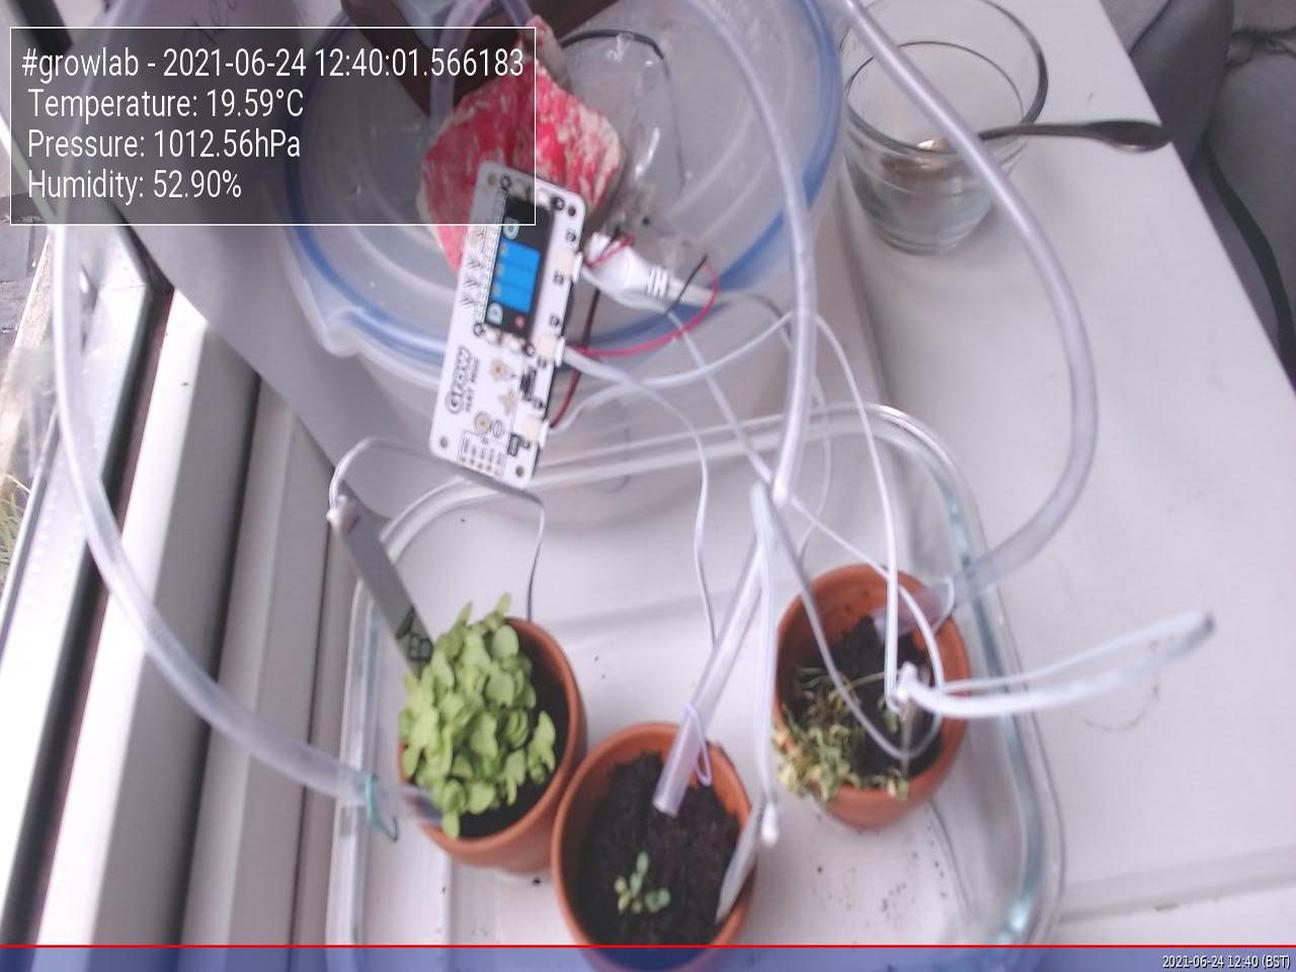
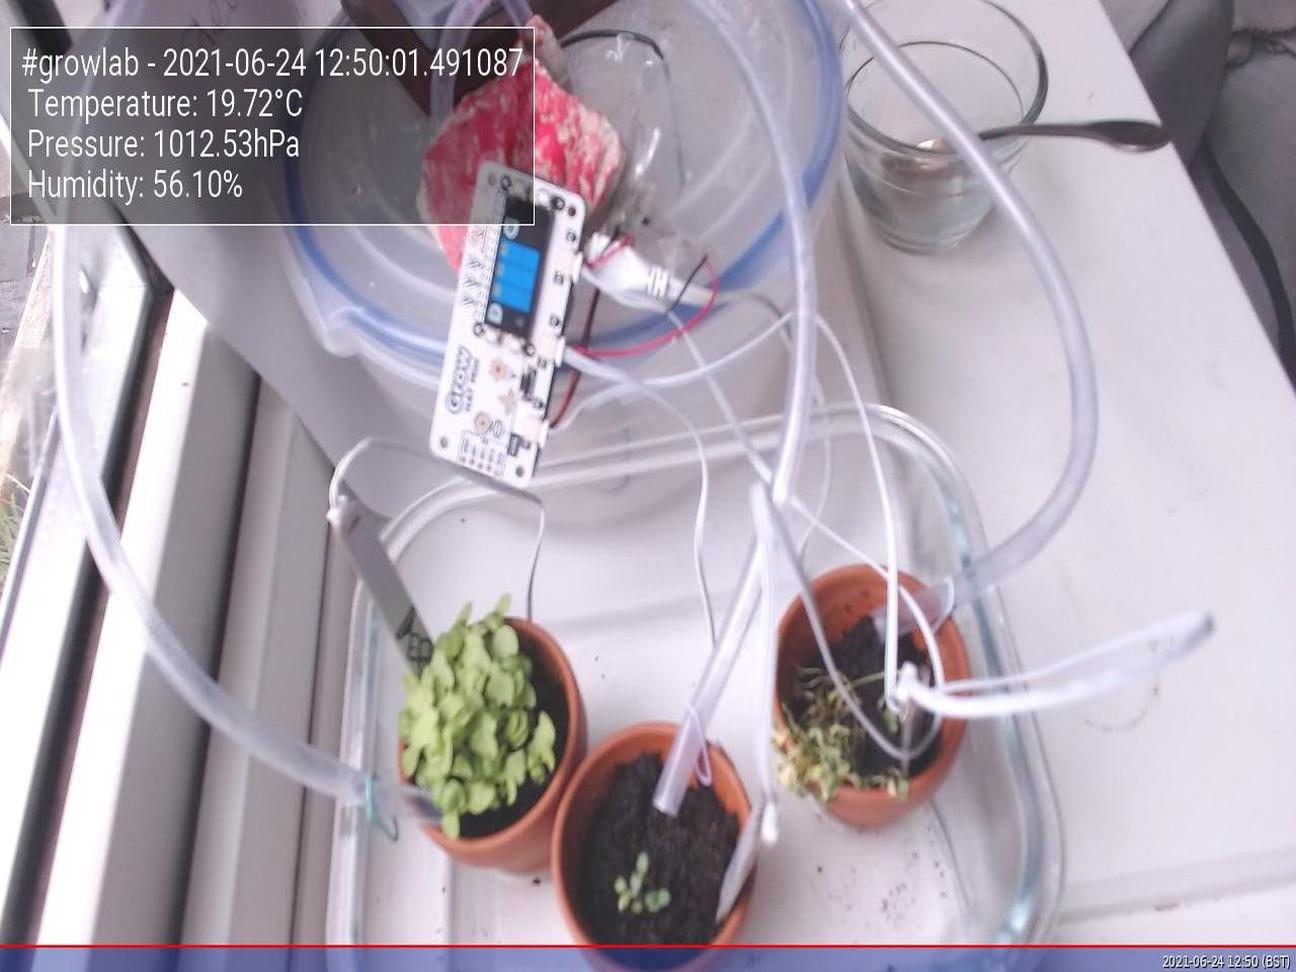
Update images at Thu 24 Jun 12:50:05 BST 2021

Changed region(s): [[0.3395, 0.0309, 0.4321, 0.216], [0.1235, 0.0926, 0.2469, 0.216], [0.9568, 0.9877, 0.9877, 1.0]]

diff --git a/app/docs/index.html b/app/docs/index.html
@@ -47,19 +47,19 @@
                         <tbody>
                             <tr>
                                 <td>Time</td>
-                                <td>2021-06-24 12:40:01.566183</td>
+                                <td>2021-06-24 12:50:01.491087</td>
                             </tr>
                             <tr>
                                 <td>Temperature</td>
-                                <td>19.59°C</td>
+                                <td>19.72°C</td>
                             </tr>
                             <tr>
                                 <td>Humidity</td>
-                                <td>52.90%</td>
+                                <td>56.10%</td>
                             </tr>
                             <tr>
                                 <td>Pressure</td>
-                                <td>1012.56hPa</td>
+                                <td>1012.53hPa</td>
                             </tr>
                         </tbody>
                     </table>
@@ -67,7 +67,7 @@
 
                 <h5>Latest image</h5>
                 <div style="width: 85%;">
-                            <img class="figure-img img-fluid rounded" src="./preview.jpg?uid=1624534805.3357124">
+                            <img class="figure-img img-fluid rounded" src="./preview.jpg?uid=1624535405.229974">
                 </div>
             </div>
         </div>
